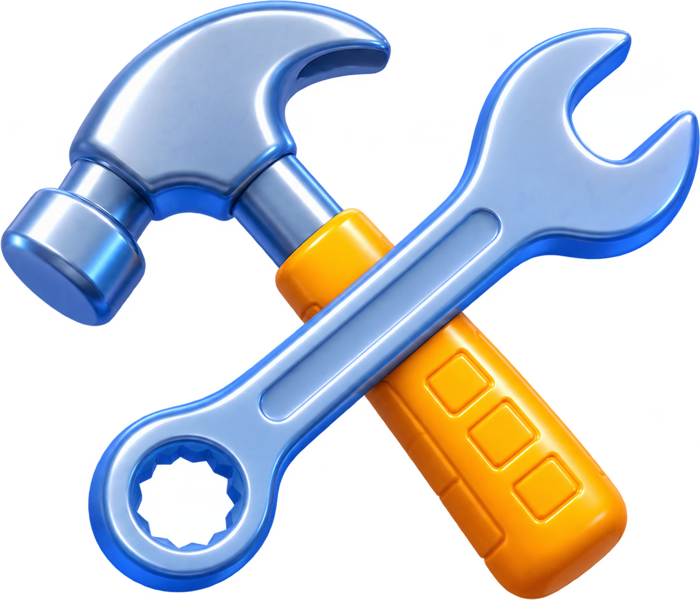
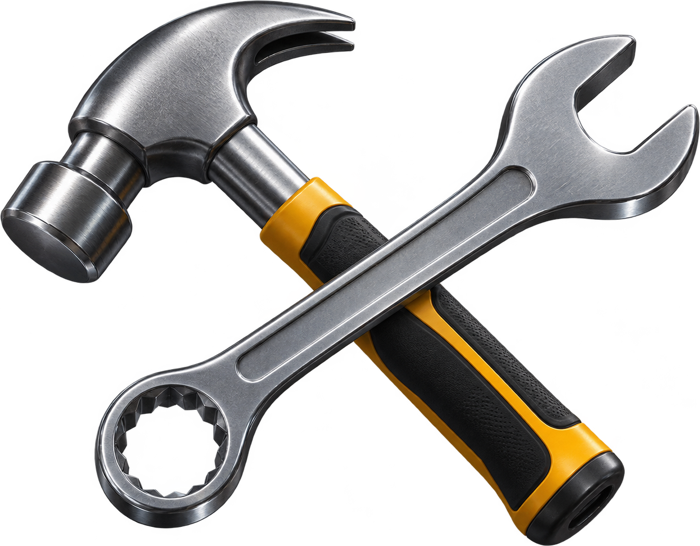
programme: image marteau et cle en metal sur la miniature 04, un peu plus a droite

diff --git a/app/globals.css b/app/globals.css
@@ -712,3 +712,11 @@ body::before {
 [data-yma="yma-mini-test"][data-yma="yma-mini-test"]:has(img[src$="module-12.png"]) .yma-word,
 [data-yma="yma-mini-test"][data-yma="yma-mini-test"]:has(img[src$="module-18.png"]) .yma-word,
 .grid > *:nth-child(5) [data-yma="yma-mini-test"][data-yma="yma-mini-test"] .yma-word { margin-left: 28px !important; }
+
+/* yma-outils-droite : image outils (module 04) un peu plus a droite, PC et telephone */
+@media (min-width: 768px) {
+  [data-yma="yma-mini-test"] .yma-mini-img[src$="module-18.png"] { right: 28px !important; }
+}
+@media (max-width: 767px) {
+  [data-yma="yma-mini-test"] .yma-mini-img[src$="module-18.png"] { right: 14px !important; }
+}
